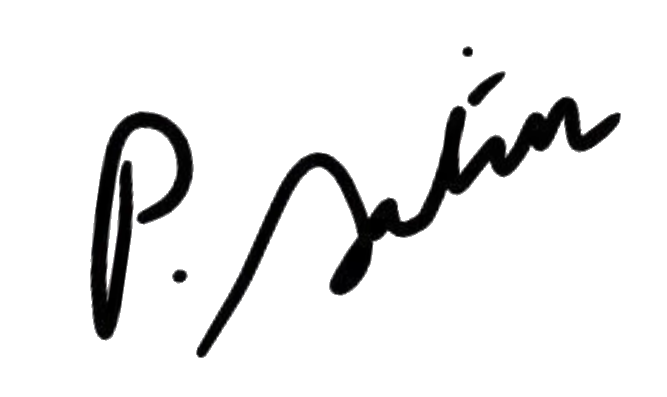
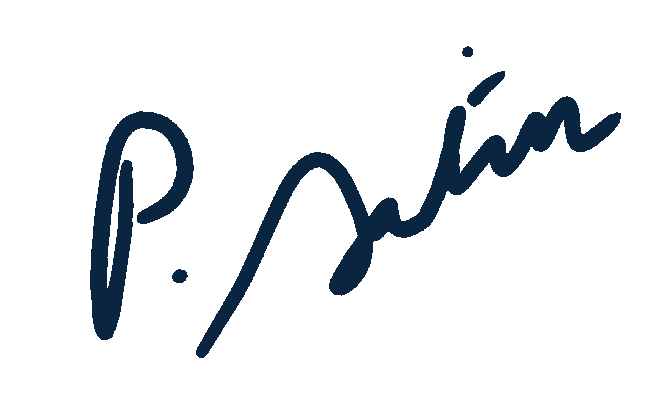
Update corner geometric shape graphics cropped from reuploaded template_HPS.png and render transparent signature.png

diff --git a/src/components/certificates/CertificateTemplate.jsx b/src/components/certificates/CertificateTemplate.jsx
@@ -31,21 +31,21 @@ export function CertificateTemplate({ certificate, intern, verificationUrl, inne
       className="bg-white text-slate-900 border-[3px] border-[#0A2540] p-6 sm:p-10 relative overflow-hidden select-none w-full aspect-[1.414/1] max-w-[950px] mx-auto shadow-2xl flex flex-col justify-between"
       style={{ fontFamily: "'Satoshi', system-ui, sans-serif" }}
     >
-      {/* 1. Authentic Top-Left Geometric Shape from HPS Template.png */}
+      {/* 1. Top-Left Corner Shape from reuploaded template_HPS.png */}
       <img
-        src="/hps-template/clean_top_left_shape.png"
+        src="/hps-template/hps_clean_tl_shape.png"
         alt=""
         className="absolute top-0 left-0 w-[21%] h-auto pointer-events-none z-0"
       />
 
-      {/* 2. Authentic Bottom-Right Geometric Shape from HPS Template.png */}
+      {/* 2. Bottom-Right Corner Shape from reuploaded template_HPS.png */}
       <img
-        src="/hps-template/clean_bottom_right_shape.png"
+        src="/hps-template/hps_clean_br_shape.png"
         alt=""
         className="absolute bottom-0 right-0 w-[21%] h-auto pointer-events-none z-0"
       />
 
-      {/* 3. Top Header with Requested hps_logo.png */}
+      {/* 3. Top Header with HPS Logo */}
       <div className="flex flex-col items-center justify-center relative z-10 pt-1">
         <img
           src="/hps-template/hps_logo.png"
@@ -104,7 +104,7 @@ export function CertificateTemplate({ certificate, intern, verificationUrl, inne
         </div>
       </div>
 
-      {/* 5. Bottom Section: Metadata List, QR Code Box, and Director Signature with Gap */}
+      {/* 5. Bottom Section: Metadata List, QR Code Box, and Requested signature.png */}
       <div className="pt-2 grid grid-cols-12 gap-2 items-end relative z-10">
         {/* Left Column: Metadata Details List */}
         <div className="col-span-5 text-xs font-semibold text-slate-800 space-y-1 pl-2">
@@ -150,14 +150,14 @@ export function CertificateTemplate({ certificate, intern, verificationUrl, inne
           </div>
         </div>
 
-        {/* Right Column: Director Signature with Clear Gap from Bottom-Right Corner Shape */}
+        {/* Right Column: Requested signature.png (Transparent background with gap from corner shape) */}
         <div className="col-span-4 flex flex-col items-center justify-end text-center pr-10 sm:pr-14 relative z-10">
           <img
-            src="/hps-template/crisp_signature.png"
+            src="/hps-template/clean_user_signature.png"
             alt="Director Signature"
-            className="h-10 sm:h-12 w-auto mx-auto object-contain mb-1"
+            className="h-12 sm:h-14 w-auto mx-auto object-contain mb-1"
           />
-          <div className="w-32 h-[1.5px] bg-[#0A2540] my-1 mx-auto"></div>
+          <div className="w-36 h-[1.5px] bg-[#0A2540] my-1 mx-auto"></div>
           <div className="text-xs sm:text-sm font-bold text-[#0A2540] leading-tight">
             {supervisor}
           </div>
